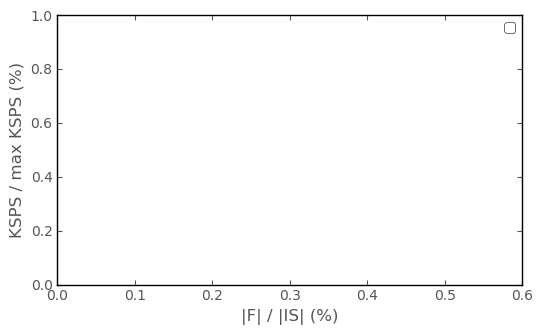
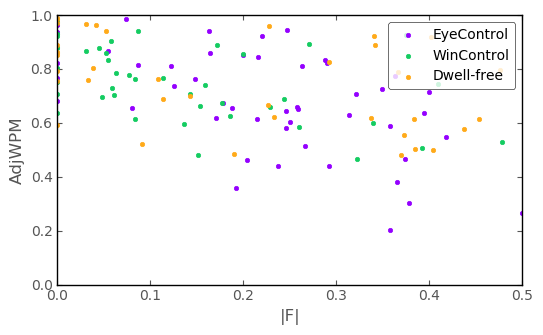
Q1, currently fail to proof error correction.

diff --git a/User_Study/TestRd2/Data-Processing/Data-Processing-Rd2.py b/User_Study/TestRd2/Data-Processing/Data-Processing-Rd2.py
@@ -23,6 +23,8 @@ class Sentence:
 		self.ksps = 0.0
 		self.f = 0.0
 		self.inputStream = 0.0
+		self.speedInProcess = 0.0
+		self.seconds = 0.0
 
 def readSentences(argFilename, argSentences):
 	with open('Raw-Data/Logs/'+argFilename+'.csv') as csvDataFile:
@@ -42,12 +44,14 @@ def readSentences(argFilename, argSentences):
 				sentences[-1].ksps = float(row[6])
 				sentences[-1].f = float(row[19])	# fixed keystrokes
 				sentences[-1].inputStream = float(row[22])	# input stream
+				sentences[-1].inputStreamNoF = (float(row[18]))+(float(row[17]))+(float(row[16]))	# C+INF+IF
+				sentences[-1].seconds = float(row[2])	# seconds
 
 def clearCache():
 	clear_output(wait=True)
 	display(widgets.HBox([contrSpeed,contrErrRate]), contrMetric, widgets.HBox([contrPtcp]))
 	# clear data storage
-	dataStorage = [perPtcpWpm, perPtcpAdjWpm, perPtcpTotErrRate, perPtcpUncErrRate, perPtcpCorErrRate, perPtcpSentenceNo, perPtcpKsps, perPtcpF, perPtcpInputStream]
+	dataStorage = [perPtcpWpm, perPtcpAdjWpm, perPtcpTotErrRate, perPtcpUncErrRate, perPtcpCorErrRate, perPtcpSentenceNo, perPtcpKsps, perPtcpF, perPtcpInputStream, perPtcpInputStreamNoF, perPtcpSeconds]
 	for item in dataStorage:
 		for index in range(amountPtcp*amountKeyboard):
 			del item[index][:]
@@ -86,6 +90,8 @@ def plotsHub():
 				perPtcpKsps[index].append(item.ksps)
 				perPtcpF[index].append(item.f)
 				perPtcpInputStream[index].append(item.inputStream)
+				perPtcpInputStreamNoF[index].append(item.inputStreamNoF)
+				perPtcpSeconds[index].append(item.seconds)
 	filter()
 
 	if 'Speed' == contrMetric.value:
@@ -327,64 +333,91 @@ def plotSpeedVsAccuracy():
 	fig.savefig('plotWpmVsAccuracy_'+contrPtcp.value+'.png', bbox_inches='tight')
 
 def plotProof():
+	labelLearningCurve = ['EyeControl\nCorr.:0.85', 'WinControl\nCorr.:0.61', 'Dwell-free\nCorr.0.65']
+	# labelLearningCurve = ['EyeControl', 'WinControl', 'Dwell-free']
 	with plt.rc_context({'axes.edgecolor':'black', 'axes.facecolor':'white'}):
 		fig, ax = plt.subplots(figsize=(6,3.5), dpi=100)
-		ax.tick_params(axis='both', direction='in', top=True, right=True)
-	totErrorRate, sentenceNo, ksps, f, inputStream = ([[], [], []] for i in range(5))
-	for index in range(len(perPtcpAdjWpm)):
-		if len(perPtcpAdjWpm[index]):
+
+	if contrPtcp.value == 'All':
+		tmpAdjWpm, yPerSentenceISNoF, yPerSentenceSeconds, yPerSentenceF = ([[([0]*15) for i in range(amountPtcp)] for j in range(amountKeyboard)] for k in range(4))
+		tmpPerSentenceNo = [j for j in range(4,19)]
+		coefficientsKeybds = []
+		for index in range(len(perPtcpAdjWpm)):
 			for indexSub in range(len(perPtcpAdjWpm[index])):
-				if (perPtcpAdjWpm[index][indexSub] != 0) and (np.isnan(perPtcpAdjWpm[index][indexSub]) == False):
-					f[index%amountKeyboard].append(perPtcpF[index][indexSub])
-					inputStream[index%amountKeyboard].append(perPtcpInputStream[index][indexSub])
-					ksps[index%amountKeyboard].append(perPtcpKsps[index][indexSub])
-					sentenceNo[index%amountKeyboard].append(perPtcpSentenceNo[index][indexSub])
-					totErrorRate[index%amountKeyboard].append(perPtcpTotErrRate[index][indexSub])	
-	# compute max KSPS
-	plotY = getMaxKSPS(ksps, sentenceNo, totErrorRate)
-	plotX = [[], [], []]
-	for i in range(amountKeyboard):
-		for j in range(len(f[i])):
-			plotX[i].append(f[i][j] / inputStream[i][j])
-		# plt.scatter(plotX[i], plotY[i], color=color[i], label=labelKeybd[i], s=10)
-	ax.legend(loc='upper right', facecolor='white', edgecolor='black')
-	ax.set(xlabel='|F| / |IS| (%)', ylabel='KSPS / max KSPS (%)')
-	plt.xlim(0, 0.6)
-	fig.savefig('plotProof'+contrPtcp.value+'.png', bbox_inches='tight')
+				i = tmpPerSentenceNo.index(perPtcpSentenceNo[index][indexSub])
+				yPerSentenceISNoF[index%amountKeyboard][index//amountKeyboard][i] = perPtcpInputStreamNoF[index][indexSub]
+				yPerSentenceSeconds[index%amountKeyboard][index//amountKeyboard][i] = perPtcpSeconds[index][indexSub]				
+				yPerSentenceF[index%amountKeyboard][index//amountKeyboard][i] = perPtcpF[index][indexSub]
+				tmpAdjWpm[index%amountKeyboard][index//amountKeyboard][i] = perPtcpAdjWpm[index][indexSub]
+		yWpm, sdTotErrRate = ([([0]*15)for p in range(amountKeyboard)] for q in range(2))
+		for i in range(amountKeyboard):
+			for j in range(15):
+				bufferWpm, bufferErrRate = ([] for q in range(2))
+				for k in range(amountPtcp):
+					if (tmpAdjWpm[i][k][j] != 0.0) and (np.isnan(tmpAdjWpm[i][k][j]) == False):
+						bufferWpm.append(yPerSentenceISNoF[i][k][j]/yPerSentenceSeconds[i][k][j])
+						bufferErrRate.append(yPerSentenceF[i][k][j]/(yPerSentenceF[i][k][j] + yPerSentenceISNoF[i][k][j]))
+					else:
+						bufferWpm.append(np.NaN)
+						bufferErrRate.append(np.NaN)
+				if len(bufferWpm) <= amountPtcp: # threshold = 0.3
+					yWpm[i][j] = np.nanmean(bufferWpm)
+					sdTotErrRate[i][j] = np.nanmean(bufferErrRate)
+				else:
+					yWpm[i][j] = 0
+					sdTotErrRate[i][j] = 0
+			# data fitting
+			# x = range(4, 19)
+			# coefficients = np.polyfit(sdTotErrRate[i], yWpm[i], 1)
+			# coefficientsKeybds.append(coefficients)
+			# plt.plot([q for q in range(4,19)], sdTotErrRate[i], color=color[i], linewidth=0.5, alpha=0.3)
+		plt.scatter(sdTotErrRate[0], yWpm[0], color=color[0], s=20, label=labelLearningCurve[0])
+		plt.scatter(sdTotErrRate[1], yWpm[1], color=color[1], s=20, label=labelLearningCurve[1])
+		plt.scatter(sdTotErrRate[2], yWpm[2], color=color[2], s=20, label=labelLearningCurve[2], marker='D')
+
+		# for i in range(amountKeyboard):
+		# 	xForPlots = sdTotErrRate[i]
+		# 	yForPlots = []
+		# 	for eachXForPlots in xForPlots:
+		# 		yForPlots.append(coefficientsKeybds[i][0]*eachXForPlots + coefficientsKeybds[i][1])
+			# plt.plot(xForPlots, yForPlots, color=color[i], linewidth=1)
+			# corrcoef = np.corrcoef(yWpm[i], yForPlots)[1,0]
+			# print(corrcoef)
+	ax.set(xlabel='|F|', ylabel='Speed in process')
+	ax.tick_params(axis='both', direction='in', top=True, right=True)
+	ax.legend(loc='upper center', facecolor='white', edgecolor='black', ncol=3)
+	# ax.grid(color='gray', alpha=0.3, axis='both')
+	# plt.ylim(0,15)
+	# plt.xlim(0, 1)
+	fig.savefig('plotProof_'+contrPtcp.value+'.png', bbox_inches='tight')
 
 # get max KSPS for each participant per keyboard
-def getMaxKSPS(paramKSPS, paramSentenceNo, paramTotErrorRate):
-	amountParticipants = 5
-	maxKspss = [[] for i in range(amountKeyboard)]
-	maxKspsCandidates, kspsPerPtcpPerKeybd, totErrorRatePerPtcpPerKeybd = ([[[] for i in range(amountParticipants)] for j in range(amountKeyboard)] for k in range(3))
-	for i in range(amountKeyboard):
-		counterParticipant = 0
-		tmp = paramSentenceNo[i][0]
-		for j in range(len(paramSentenceNo[i])):
-			if paramSentenceNo[i][j] < tmp:
-				counterParticipant += 1
-			kspsPerPtcpPerKeybd[i][counterParticipant].append(paramKSPS[i][j])
-			if paramTotErrorRate[i][j] <= 0.05:
-				maxKspsCandidates[i][counterParticipant].append(paramKSPS[i][j])
-			tmp = paramSentenceNo[i][j]
+# def getMaxSpeedInProcess(paramKSPS, paramSentenceNo):
+# 	amountParticipants = 5
+# 	maxKspss = [[] for i in range(amountKeyboard)]
+# 	kspsPerPtcpPerKeybd, totErrorRatePerPtcpPerKeybd = ([[[] for i in range(amountParticipants)] for j in range(amountKeyboard)] for k in range(2))
+# 	for i in range(amountKeyboard):
+# 		counterParticipant = 0
+# 		tmp = paramSentenceNo[i][0]
+# 		for j in range(len(paramSentenceNo[i])):
+# 			if paramSentenceNo[i][j] < tmp:
+# 				counterParticipant += 1
+# 			kspsPerPtcpPerKeybd[i][counterParticipant].append(paramKSPS[i][j])
+# 			tmp = paramSentenceNo[i][j]
 
-	plotY = [[], [], []]
-	for i in range(amountKeyboard):
-		for j in range(amountParticipants):
-			if len(maxKspsCandidates[i][j]):
-				maxKspss[i].append(np.mean(maxKspsCandidates[i][j]))
-			else:
-				maxKspss[i].append(max(kspsPerPtcpPerKeybd[i][j]))
-			for k in range(len(kspsPerPtcpPerKeybd[i][j])):
-				plotY[i].append(kspsPerPtcpPerKeybd[i][j][k] / maxKspss[i][j])
-	print(plotY)
-	return plotY
+# 	plotY = [[], [], []]
+# 	for i in range(amountKeyboard):
+# 		for j in range(amountParticipants):
+# 			maxKspss[i].append(max(kspsPerPtcpPerKeybd[i][j]))
+# 			for k in range(len(kspsPerPtcpPerKeybd[i][j])):
+# 				plotY[i].append(kspsPerPtcpPerKeybd[i][j][k] / maxKspss[i][-1])
+# 	return plotY
 
 if __name__=="__main__":
 	amountPtcp=6
 	amountKeyboard=3
 	sentences=[]
-	perPtcpWpm, perPtcpAdjWpm, perPtcpTotErrRate, perPtcpUncErrRate, perPtcpCorErrRate, perPtcpSentenceNo, perPtcpKsps, perPtcpF, perPtcpInputStream = ([[] for j in range(amountPtcp*amountKeyboard)] for i in range(9))
+	perPtcpWpm, perPtcpAdjWpm, perPtcpTotErrRate, perPtcpUncErrRate, perPtcpCorErrRate, perPtcpSentenceNo, perPtcpKsps, perPtcpF, perPtcpInputStream, perPtcpInputStreamNoF, perPtcpSeconds = ([[] for j in range(amountPtcp*amountKeyboard)] for i in range(11))
 	plotXPosition = [1,2,3]
 	labelKeybd = ['EyeControl', 'WinControl', 'Dwell-free'] * 6
 	axisKeybd = ['WinControl', 'EyeControl', 'Dwell-free'] * 6
